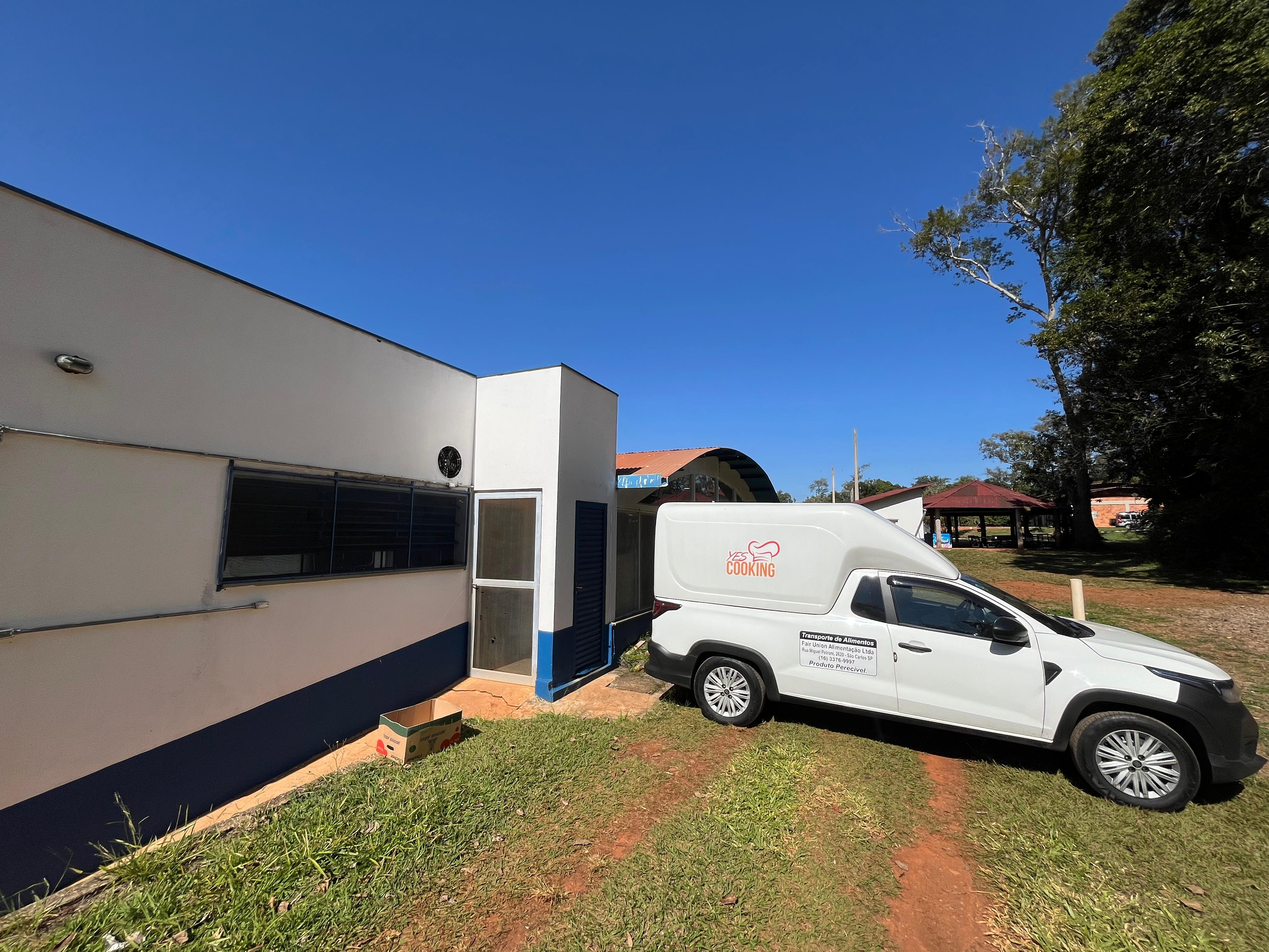
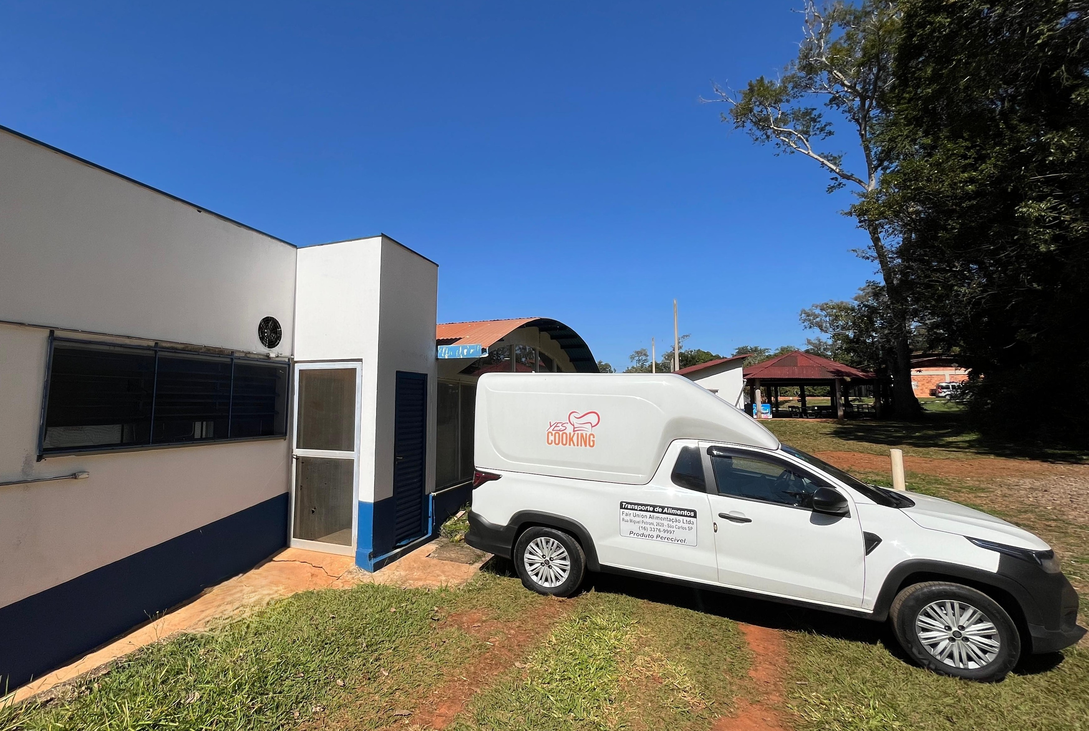
mudanca nas imagens, adicao de hooks, e adicionei variavel secret key do google maps

diff --git a/src/data.js b/src/data.js
@@ -10,11 +10,7 @@ export const unidades = [
       telefone: "(11) 1234-5678",
       email: "sac@ufs.car.br",
     },
-    images: [
-      "./images/timeline/timeline01.jpg",
-      "./images/unidades/sc/sc3.jpg",
-      "./images/unidades/sc/sc1.jpg",
-    ],
+    images: ["./images/unidades/sc/sc1.jpg", "./images/unidades/sc/sc2.jpg"],
   },
   {
     id: 2,
@@ -26,10 +22,7 @@ export const unidades = [
       telefone: "(11) 8765-4321",
       email: "aras@ufs.car.br",
     },
-    images: [
-      "./images/unidades/ar/teste1.jpg",
-      "./images/unidades/ar/teste2.jpg",
-    ],
+    images: ["./images/unidades/ar/ar1.jpg", "./images/unidades/ar/ar2.jpg"],
   },
   {
     id: 3,
@@ -42,12 +35,13 @@ export const unidades = [
       email: "sorocaba@ufs.car.br",
     },
     images: [
+      "./images/unidades/soro/soro1.jpg",
       "./images/unidades/soro/soro2.jpg",
       "./images/unidades/soro/soro3.jpg",
       "./images/unidades/soro/soro4.jpg",
       "./images/unidades/soro/soro5.jpg",
       "./images/unidades/soro/soro6.jpg",
-      "./images/unidades/soro/soro1.jpg",
+      "./images/unidades/soro/soro8.jpg",
     ],
   },
   {
@@ -64,6 +58,9 @@ export const unidades = [
       "./images/unidades/buri/br1.jpg",
       "./images/unidades/buri/br2.jpg",
       "./images/unidades/buri/br3.jpg",
+      "./images/unidades/buri/br4.jpg",
+      "./images/unidades/buri/br5.jpg",
+      "./images/unidades/buri/br6.jpg",
     ],
   },
   {

diff --git a/src/components/Unidades/Unidades.js b/src/components/Unidades/Unidades.js
@@ -47,7 +47,6 @@ const Unidades = () => {
               onSelectUnit={handleSelectUnit}
             />
           </MapWrapper>
-
           {selectedUnit && (
             <DetailsCard>
               <div>
@@ -62,33 +61,6 @@ const Unidades = () => {
               />
 
               <Description>{selectedUnit.descricao}</Description>
-
-              <ContactList>
-                <ContactItem>
-                  <Icon>
-                    <FaMapMarkerAlt />
-                  </Icon>
-                  <span>
-                    <strong>Endereço:</strong> {selectedUnit.endereco}
-                  </span>
-                </ContactItem>
-                <ContactItem>
-                  <Icon>
-                    <FaPhone />
-                  </Icon>
-                  <span>
-                    <strong>Telefone:</strong> {selectedUnit.contato.telefone}
-                  </span>
-                </ContactItem>
-                <ContactItem>
-                  <Icon>
-                    <FaEnvelope />
-                  </Icon>
-                  <span>
-                    <strong>Email:</strong> {selectedUnit.contato.email}
-                  </span>
-                </ContactItem>
-              </ContactList>
             </DetailsCard>
           )}
         </ContentContainer>

diff --git a/src/components/Carousel/styled.js b/src/components/Carousel/styled.js
@@ -1,10 +1,9 @@
-import styled from 'styled-components';
+import styled from "styled-components";
 
 export const CarouselContainer = styled.div`
   position: relative;
   width: 100%;
   height: 100%;
-  max-height: 400px;
   border-radius: 15px;
   overflow: hidden;
 `;
@@ -12,7 +11,7 @@ export const CarouselContainer = styled.div`
 export const CarouselWrapper = styled.div`
   width: 100%;
   height: 100%;
-  
+
   > div {
     display: flex;
     height: 100%;
@@ -23,10 +22,11 @@ export const CarouselSlide = styled.div`
   flex-shrink: 0;
   width: 100%;
   height: 100%;
-  
+
   img {
     width: 100%;
-    height: 100%;
+    height: 85%;
+    position: center;
     object-fit: cover;
   }
 `;
@@ -52,15 +52,15 @@ export const NavButton = styled.button`
   ${CarouselContainer}:hover & {
     opacity: 1;
   }
-  
+
   &:hover {
     background-color: rgba(255, 255, 255, 1);
   }
-  
+
   &.left {
     left: 10px;
   }
-  
+
   &.right {
     right: 10px;
   }
@@ -82,6 +82,7 @@ export const Dot = styled.button`
   border: none;
   padding: 0;
   cursor: pointer;
-  background-color: ${({ isActive }) => (isActive ? 'white' : 'rgba(255, 255, 255, 0.5)')};
+  background-color: ${({ isActive }) =>
+    isActive ? "white" : "rgba(255, 255, 255, 0.5)"};
   transition: background-color 0.3s;
 `;

diff --git a/src/hooks/useWindowSize.js b/src/hooks/useWindowSize.js
@@ -1,0 +1,30 @@
+// src/hooks/useWindowSize.js
+
+import { useState, useEffect } from 'react';
+
+function useWindowSize() {
+  // 1. Inicializa o estado com a largura e altura da janela
+  const [windowSize, setWindowSize] = useState({
+    width: window.innerWidth,
+    height: window.innerHeight,
+  });
+
+  useEffect(() => {
+    // 2. Cria uma função para ser chamada quando a janela for redimensionada
+    function handleResize() {
+      // Atualiza o estado com as novas dimensões
+      setWindowSize({
+        width: window.innerWidth,
+        height: window.innerHeight,
+      });
+    }
+
+    window.addEventListener('resize', handleResize);
+
+    return () => window.removeEventListener('resize', handleResize);
+  }, []); // O array vazio [] garante que este efeito rode apenas uma vez (na montagem e desmontagem)
+
+  return windowSize;
+}
+
+export default useWindowSize;

diff --git a/src/components/Map/Map.js b/src/components/Map/Map.js
@@ -1,4 +1,5 @@
 import { GoogleMap, useJsApiLoader, MarkerF } from "@react-google-maps/api";
+import useWindowSize from "../../hooks/useWindowSize";
 
 const containerStyle = {
   width: "100%",
@@ -26,6 +27,12 @@ const MapComponent = ({ unidades, selectedUnit, onSelectUnit }) => {
     scaledSize: isLoaded ? new window.google.maps.Size(45, 45) : null,
   };
 
+  const { width } = useWindowSize();
+
+  const isMobile = width < 900;
+
+  const zoomLevel = isMobile ? 6.5 : 7.5;
+
   if (loadError) {
     return <div>Erro ao carregar o mapa</div>;
   }
@@ -38,7 +45,7 @@ const MapComponent = ({ unidades, selectedUnit, onSelectUnit }) => {
     <GoogleMap
       mapContainerStyle={containerStyle}
       center={center}
-      zoom={6.8}
+      zoom={zoomLevel}
       options={{
         streetViewControl: false,
         mapTypeControl: false,

diff --git a/src/components/Unidades/styled.js b/src/components/Unidades/styled.js
@@ -39,7 +39,7 @@ export const ContentContainer = styled.div`
 export const MapWrapper = styled.div`
   position: relative;
   width: 100%;
-  height: 300px;
+  height: 400px;
   border-radius: 15px;
   overflow: hidden;
   box-shadow: 0 10px 30px rgba(0, 0, 0, 0.1);
